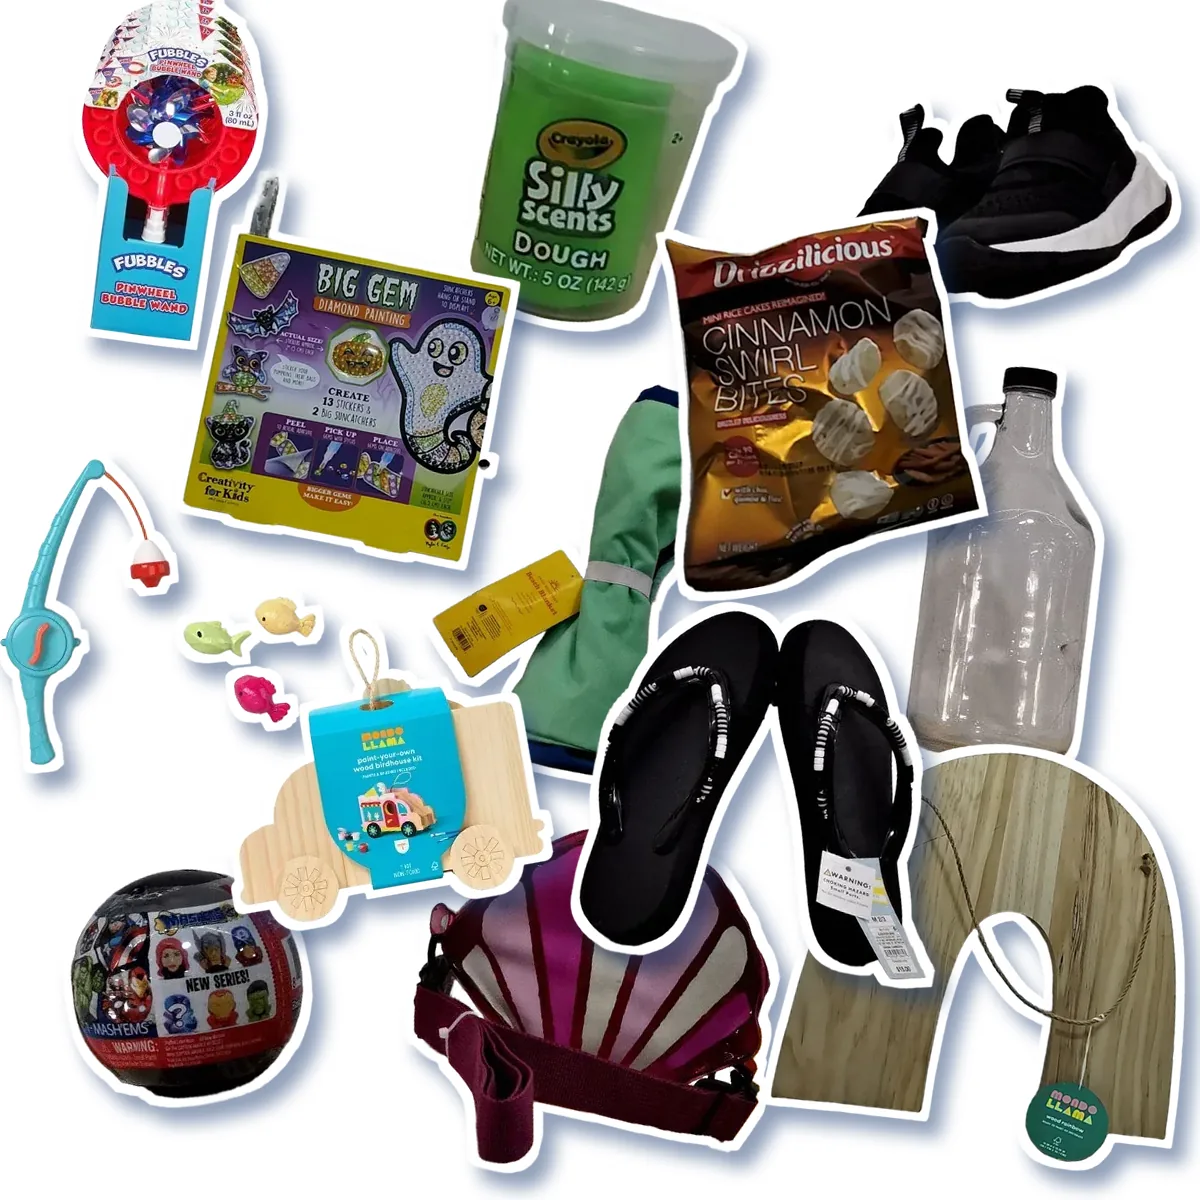
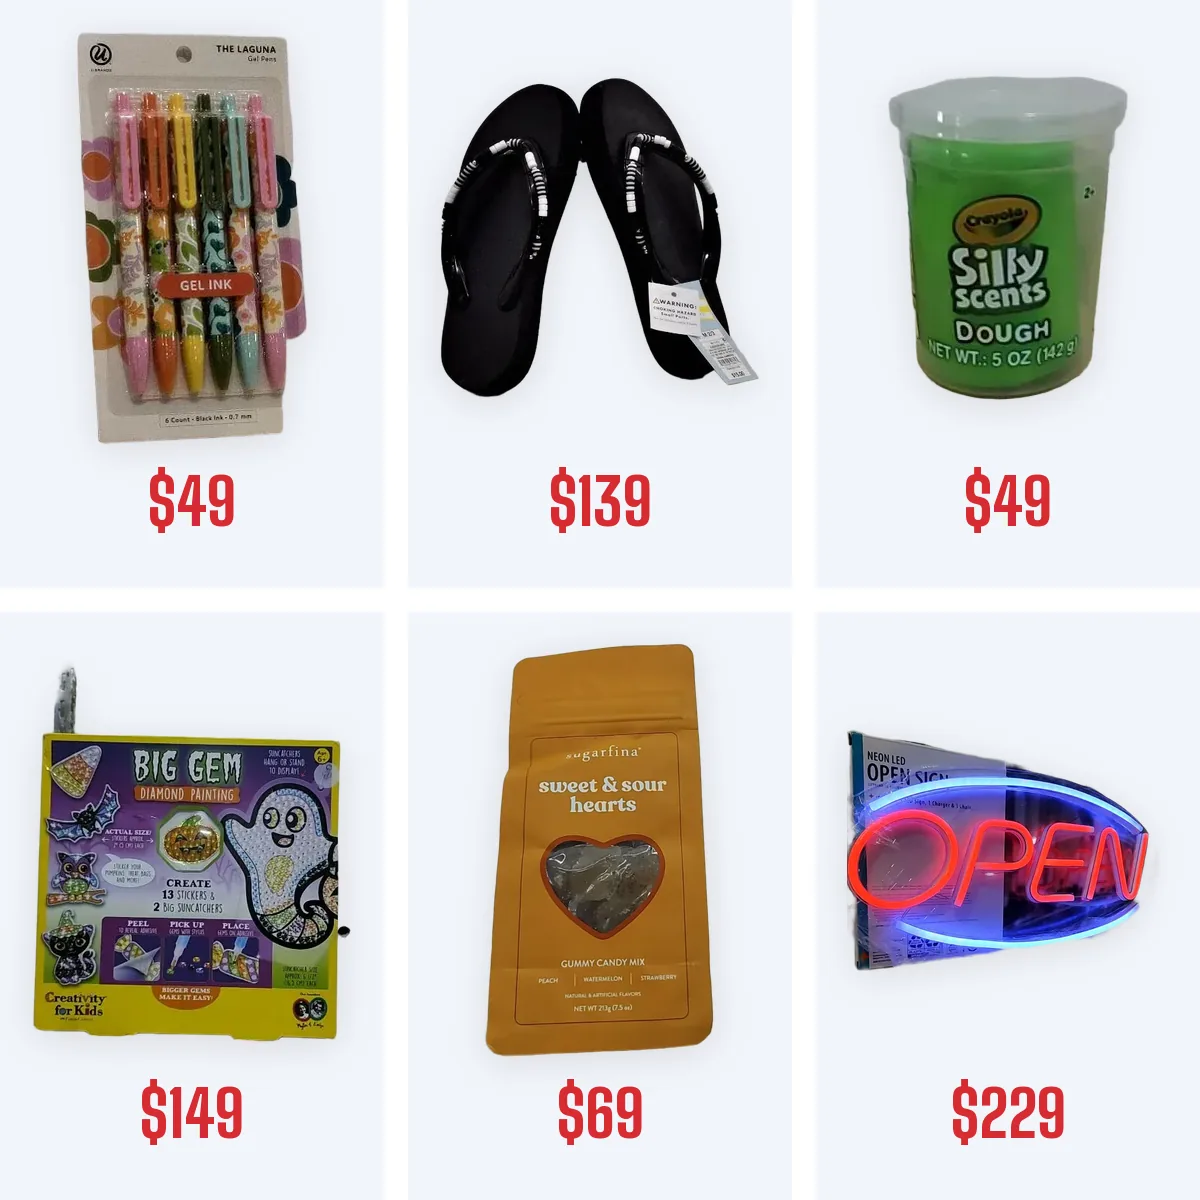
Pila semanal: página de catálogo 3x2 de recortes con precio, sin troquel ni giro (#630)

diff --git a/tools/pila_stickers.py b/tools/pila_stickers.py
@@ -1,7 +1,10 @@
-"""Genera la pila semanal de stickers de la portada (Issue #531) con recortes reales del catálogo.
+"""Genera la «página de catálogo» de la portada (Issues #531 y #630) con recortes reales del catálogo.
 
 Uso: python tools/pila_stickers.py [--salida site/public/assets] [--api https://dolarones.eldolaron.com] [--semana 2026-W44]
 Requiere Pillow. Escribe pila.webp (1200 px), pila-640.webp y pila.json; si algo falla en la red no escribe nada.
+Composición: cuadrícula 3x2 de celdas #F2F5FA con 24 px de separación; en cada una el recorte contenido (sombra suave,
+sin troquel ni giro) y debajo el precio en rojo con Big Shoulders Display 800. La fuente es la misma que usa el sitio
+(site/public/assets/fonts/big-shoulders-display-variable.woff2): Pillow abre el woff2 directo con FreeType, sin fontTools.
 """
 import argparse
 import io
@@ -15,11 +18,12 @@ from collections import Counter
 from datetime import datetime, timezone
 from pathlib import Path
 
-from PIL import Image, ImageFilter
+from PIL import Image, ImageDraw, ImageFilter, ImageFont
 
-LADO, PIEZAS, MARGEN = 1200, 13, 26
-GIROS = (-14, -8, 6, 12)
-MAX_PAGINAS, MAX_CANDIDATOS, MAX_POR_CATEGORIA = 4, 60, 3
+LADO, PIEZAS, GAP, COLS, FILAS = 1200, 6, 24, 3, 2
+FONDO_CELDA, ROJO, TAM_PRECIO, ZONA_PRECIO, MARGEN = (242, 245, 250), (215, 43, 50), 64, 112, .08
+FUENTE = Path(__file__).resolve().parent.parent / "site/public/assets/fonts/big-shoulders-display-variable.woff2"
+MAX_PAGINAS, MAX_CANDIDATOS, MAX_POR_CATEGORIA = 4, 60, 2
 
 
 def get(url):
@@ -42,70 +46,73 @@ def candidatos(api):
 
 
 def abrir(pieza):
-    """Recorte recortado a su caja y su proporción de relleno (1 = rectángulo lleno)."""
+    """Recorte recortado a su caja visible."""
     im = Image.open(io.BytesIO(get(pieza["recorte"]))).convert("RGBA")
     alfa = im.getchannel("A")
     caja = alfa.getbbox()
     if not caja:
         raise ValueError("recorte vacío")
-    im, alfa = im.crop(caja), alfa.crop(caja)
-    lleno = sum(alfa.histogram()[129:]) / (im.width * im.height)
-    return im, lleno
+    return im.crop(caja)
+
+
+def clave(p):
+    """Marca (o primeras dos palabras del nombre) en minúsculas, para no repetir producto."""
+    return (p.get("marca") or " ".join(p["nombre"].split()[:2])).strip().lower()
 
 
 def elegir(piezas, rng):
-    """Prefiere siluetas irregulares y variedad de categoría (máx. 3 por categoría)."""
+    """Seis piezas deterministas por semana: sin repetir marca ni primera palabra del nombre, máx. 2 por categoría."""
     piezas = sorted(piezas, key=lambda p: p["codigo"])
     rng.shuffle(piezas)
-    piezas.sort(key=lambda p: p["lleno"] >= .8)   # estable: irregulares primero, azar dentro de cada grupo
-    elegidas, cuenta = [], Counter()
+    elegidas, marcas, palabras, cuenta = [], set(), set(), Counter()
     for p in piezas:
-        if len(elegidas) < PIEZAS and cuenta[p.get("categoria")] < MAX_POR_CATEGORIA:
+        k, w = clave(p), p["nombre"].split()[0].lower()
+        if len(elegidas) < PIEZAS and k not in marcas and w not in palabras and cuenta[p.get("categoria")] < MAX_POR_CATEGORIA:
             elegidas.append(p)
+            marcas.add(k), palabras.add(w)
             cuenta[p.get("categoria")] += 1
-    resto = [p for p in piezas if all(p is not e for e in elegidas)]   # si la variedad no alcanza, se completa sin tope
-    elegidas += resto[:PIEZAS - len(elegidas)]
-    return elegidas
+    for p in piezas:   # si la variedad no alcanza, se completa solo sin repetir marca
+        if len(elegidas) < PIEZAS and all(p is not e for e in elegidas) and clave(p) not in marcas:
+            elegidas.append(p)
+            marcas.add(clave(p))
+    resto = [p for p in piezas if all(p is not e for e in elegidas)]
+    return elegidas + resto[:PIEZAS - len(elegidas)]
 
 
-def pegatina(im, lado, giro):
-    """Miniatura con borde blanco troquelado, girada y con sombra azul desplazada."""
+def con_sombra(im, lado_max):
+    """Recorte contenido en (ancho, alto) con una sombra negra muy suave debajo, para que no flote."""
     im = im.copy()
-    im.thumbnail((lado, lado), Image.LANCZOS)
-    hoja = Image.new("RGBA", (im.width + 2 * MARGEN, im.height + 2 * MARGEN))
-    hoja.paste(im, (MARGEN, MARGEN))
-    borde = hoja.getchannel("A").filter(ImageFilter.MaxFilter(17))
-    blanco = Image.new("RGBA", hoja.size, (255, 255, 255, 0))
-    blanco.putalpha(borde)
-    blanco.alpha_composite(hoja)
-    blanco = blanco.rotate(giro, resample=Image.BICUBIC, expand=True)
-    extra = 40   # lugar para la sombra desenfocada y desplazada
-    lienzo = Image.new("RGBA", (blanco.width + extra, blanco.height + extra))
-    sombra = Image.new("RGBA", blanco.size, (22, 54, 107, 0))
-    sombra.putalpha(blanco.getchannel("A").point(lambda v: v * 120 // 255))
-    lienzo.paste(sombra, (12, 16))
-    lienzo = lienzo.filter(ImageFilter.GaussianBlur(8))
-    lienzo.alpha_composite(blanco)
-    return lienzo, blanco.size
+    im.thumbnail(lado_max, Image.LANCZOS)
+    hoja = Image.new("RGBA", (im.width + 80, im.height + 80))
+    sombra = Image.new("RGBA", im.size, (0, 0, 0, 0))
+    sombra.putalpha(im.getchannel("A").point(lambda v: v * 30 // 255))   # ~12 % de opacidad
+    hoja.paste(sombra, (40, 46))
+    hoja = hoja.filter(ImageFilter.GaussianBlur(18))
+    hoja.alpha_composite(im, (40, 40))
+    return hoja, im.size
 
 
-def componer(elegidas, rng):
-    """Rejilla 3x3 con ±30 px de azar y cuatro piezas más chicas en los cruces interiores."""
-    paso = LADO // 3
-    sitios = [(paso * (i % 3) + paso // 2, paso * (i // 3) + paso // 2, 400) for i in range(9)]
-    sitios += [(paso * i, paso * j, 360) for j in (1, 2) for i in (1, 2)]
+def componer(elegidas):
+    """Cuadrícula 3x2 de celdas #F2F5FA con recorte contenido (8 % de margen) y precio debajo."""
+    ancho, alto = (LADO - GAP * (COLS - 1)) // COLS, (LADO - GAP * (FILAS - 1)) // FILAS
+    fuente = ImageFont.truetype(str(FUENTE), TAM_PRECIO)
+    fuente.set_variation_by_axes([800])
     lienzo = Image.new("RGBA", (LADO, LADO), (255, 255, 255, 255))
+    dib = ImageDraw.Draw(lienzo)
     cajas = []
-    for p, (cx, cy, lado) in zip(elegidas, sitios):
-        giro = rng.choice(GIROS) if lado == 400 else rng.choice((-10, 10))
-        img, (w, h) = pegatina(p["im"], lado, giro)
-        cx, cy = cx + rng.randint(-30, 30), cy + rng.randint(-30, 30)
-        x, y = cx - img.width // 2, cy - img.height // 2
-        lienzo.alpha_composite(img, (max(x, 0), max(y, 0)), (max(-x, 0), max(-y, 0)))
-        # Caja de la pegatina (sin la sombra), en fracciones del cuadrado.
-        bx, by = cx - w // 2, cy - h // 2
-        cajas.append({"codigo": p["codigo"], "nombre": p["nombre"], "precio": p["precio"], "x": round(bx / LADO, 4),
-                      "y": round(by / LADO, 4), "w": round(w / LADO, 4), "h": round(h / LADO, 4), "giro": giro})
+    for i, p in enumerate(elegidas):
+        x0, y0 = (ancho + GAP) * (i % COLS), (alto + GAP) * (i // COLS)
+        dib.rectangle((x0, y0, x0 + ancho - 1, y0 + alto - 1), fill=FONDO_CELDA)
+        m = round(ancho * MARGEN)
+        zona = (ancho - 2 * m, alto - 2 * m - ZONA_PRECIO)   # el precio ocupa la franja inferior de la celda
+        img, (w, h) = con_sombra(p["im"], zona)
+        px, py = x0 + (ancho - w) // 2, y0 + m + (zona[1] - h) // 2
+        lienzo.alpha_composite(img, (px - 40, py - 40))
+        texto = "${:,}".format(round(p["precio"] / 100))
+        tw = dib.textlength(texto, font=fuente)
+        dib.text((x0 + (ancho - tw) / 2, y0 + alto - m - ZONA_PRECIO // 2), texto, font=fuente, fill=ROJO, anchor="lm")
+        cajas.append({"codigo": p["codigo"], "nombre": p["nombre"], "precio": p["precio"], "x": round(px / LADO, 4),
+                      "y": round(py / LADO, 4), "w": round(w / LADO, 4), "h": round(h / LADO, 4), "giro": 0})
     return lienzo.convert("RGB"), cajas
 
 
@@ -121,7 +128,7 @@ def main():
         buenas = []
         for p in piezas:
             try:
-                p["im"], p["lleno"] = abrir(p)
+                p["im"] = abrir(p)
                 buenas.append(p)
             except (urllib.error.URLError, OSError, ValueError, TimeoutError):
                 print(f"Aviso: se omite {p['codigo']} (recorte no disponible)", file=sys.stderr)
@@ -130,7 +137,7 @@ def main():
     if len(buenas) < PIEZAS:
         sys.exit(f"Solo hay {len(buenas)} recortes utilizables; se necesitan {PIEZAS}. No se escribió nada.")
     elegidas = elegir(buenas, rng)
-    pila, cajas = componer(elegidas, rng)
+    pila, cajas = componer(elegidas)
     salida = Path(args.salida)
     salida.mkdir(parents=True, exist_ok=True)
     pila.save(salida / "pila.webp", quality=82, method=6)
